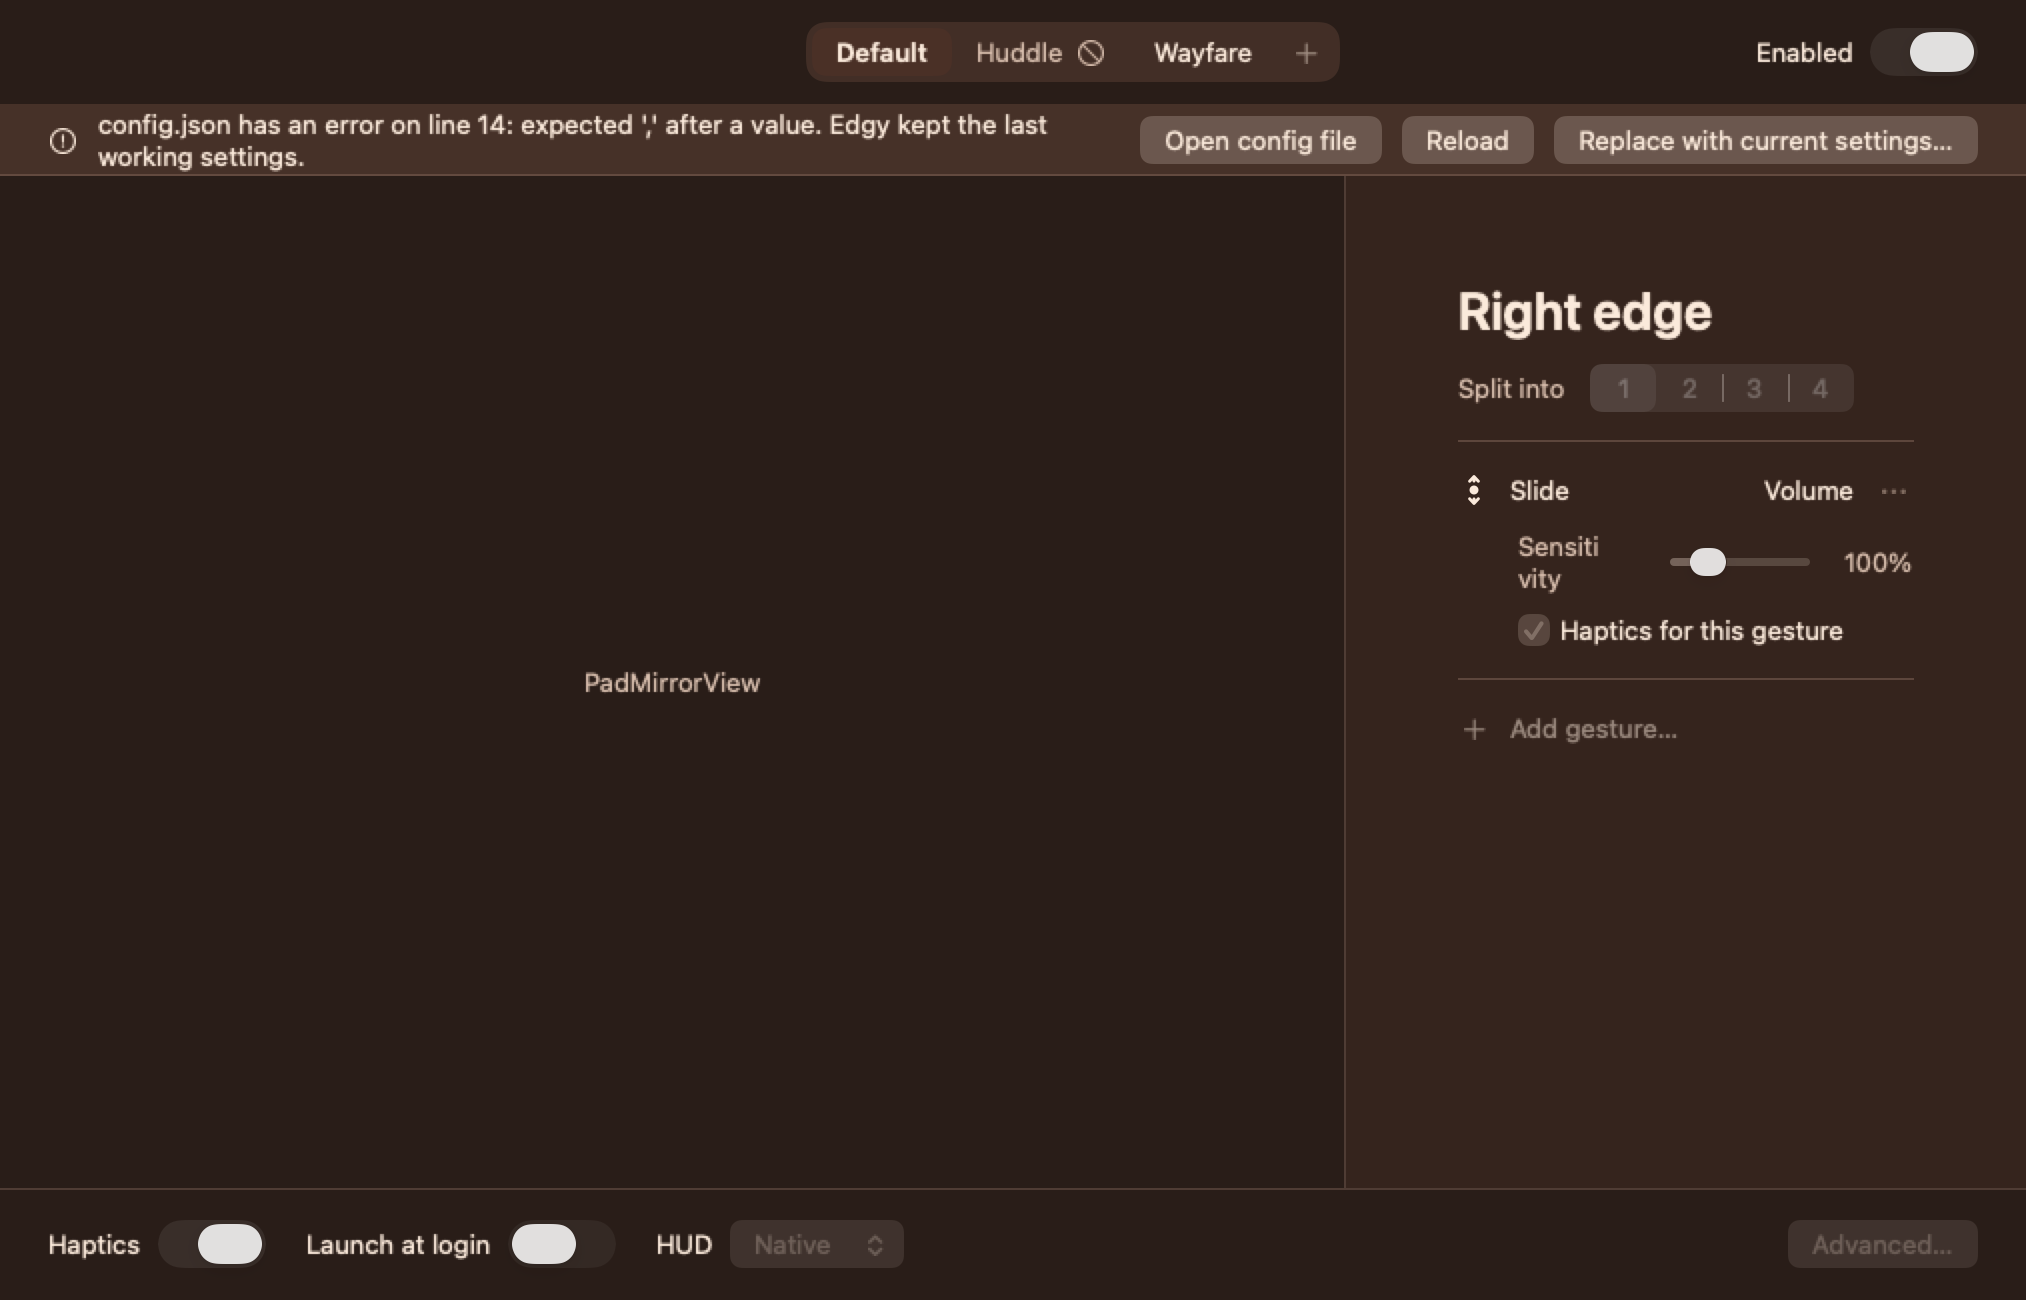
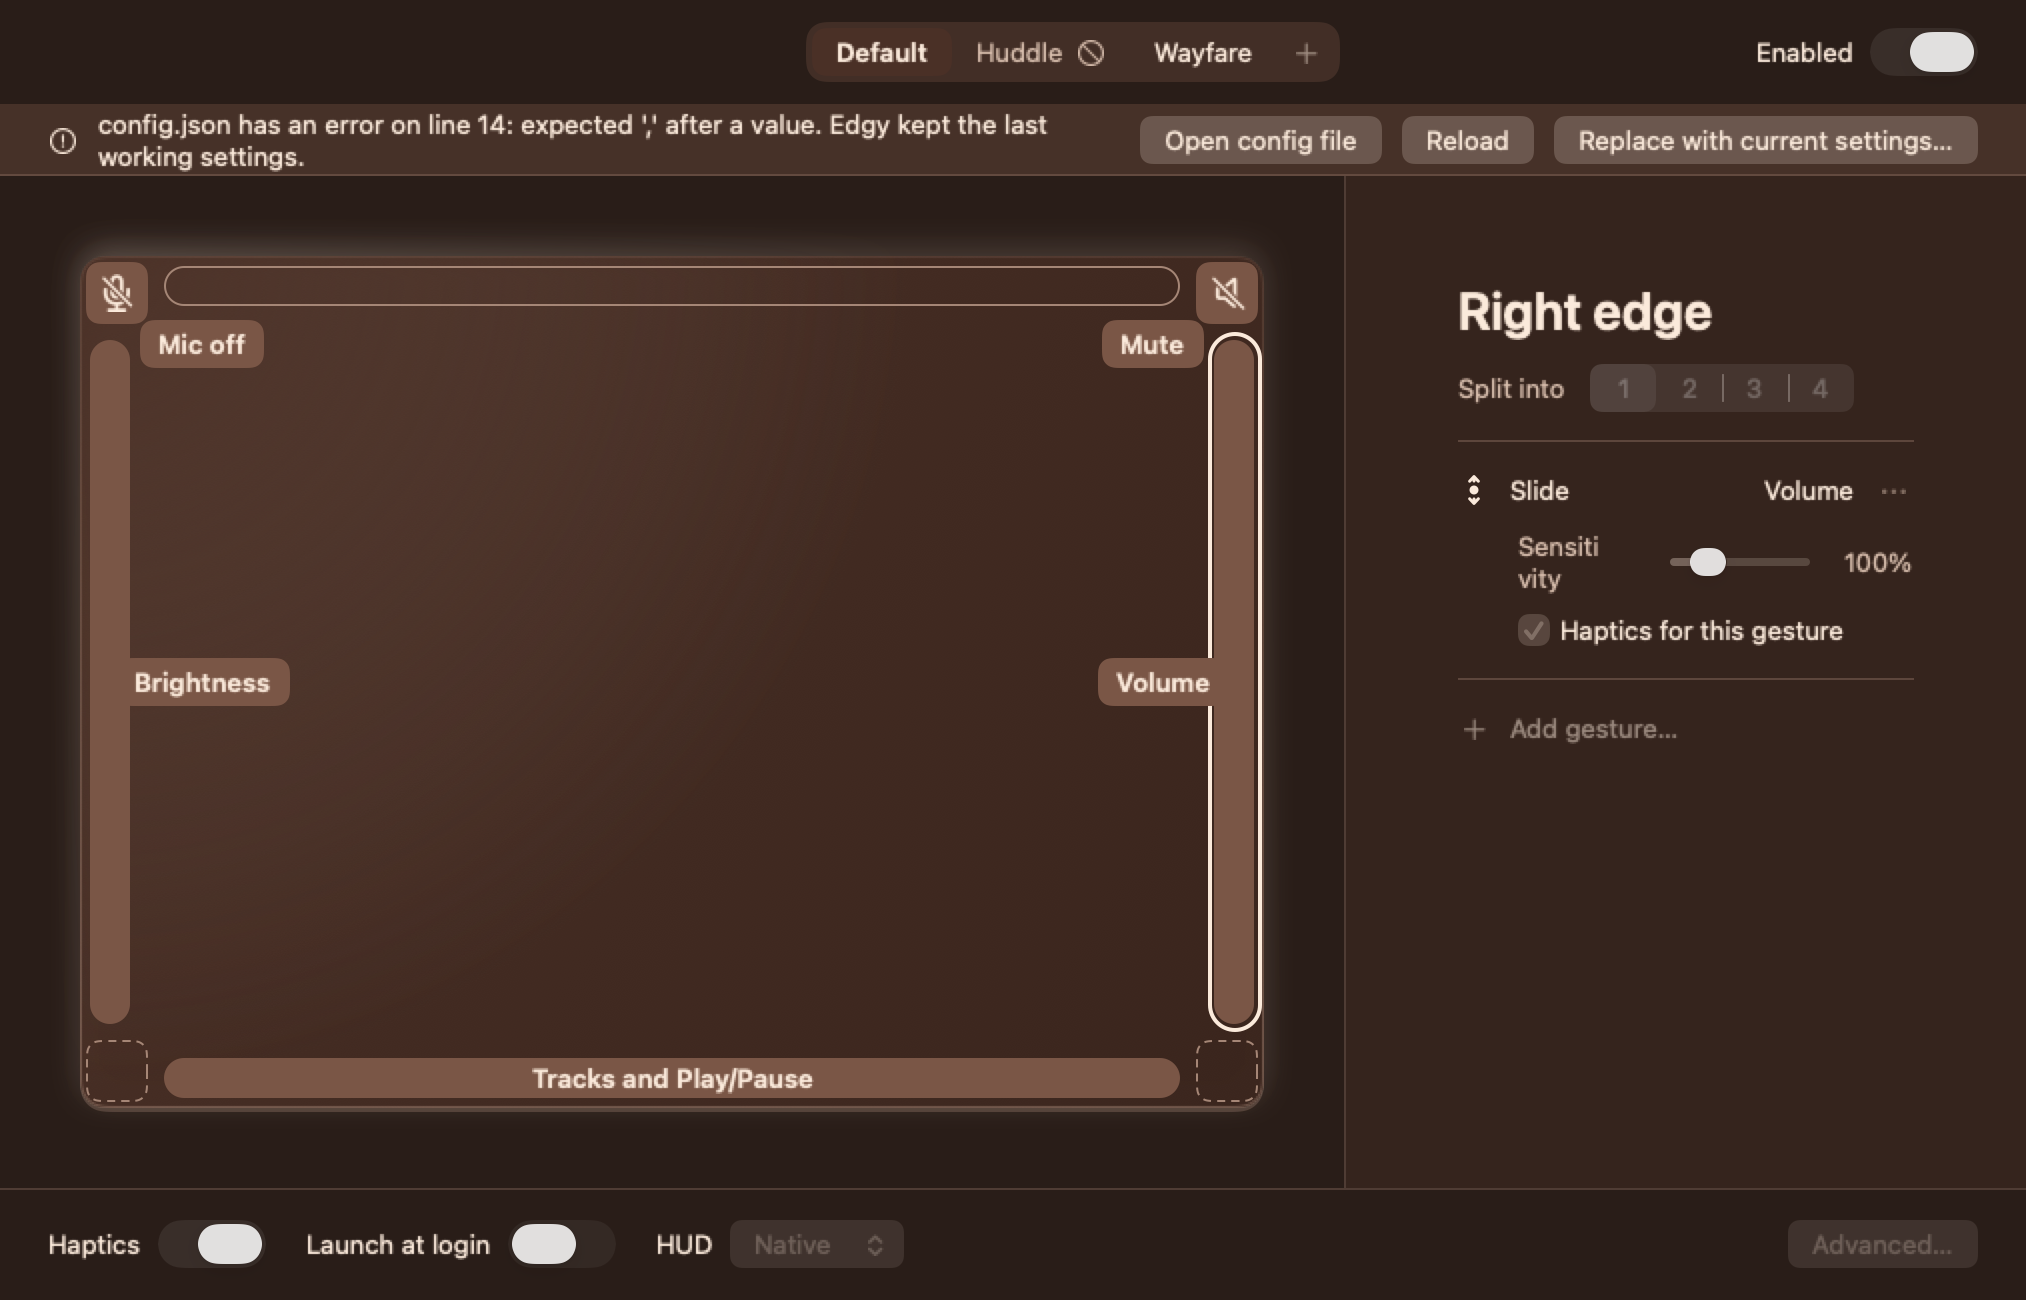
chief: mirror publishes picker anchors; integrated re-shoots; BRIEF one-open-binding + picker interior cap (design)

Changed region(s): [[0.0311, 0.1846, 0.6219, 0.8615]]

diff --git a/Sources/EdgyUI/Mirror/MirrorPad.swift b/Sources/EdgyUI/Mirror/MirrorPad.swift
@@ -154,6 +154,7 @@ struct MirrorPad: View {
     }
     .frame(width: rect.width, height: rect.height)
     .anchorPreference(key: ZoneAnchorKey.self, value: .bounds) { [zone.zone: $0] }
+    .pickerAnchor(for: zone.zone)
     .offset(x: rect.minX, y: rect.minY)
     .allowsHitTesting(false)
   }

diff --git a/Sources/EdgyUI/Mirror/PadMirrorView.swift b/Sources/EdgyUI/Mirror/PadMirrorView.swift
@@ -37,6 +37,7 @@ public struct PadMirrorView: View {
         message: Self.message(for: state),
         onSelect: { model.selectZone($0) }
       )
+      .pickerMirrorBounds()
       .id(device?.id)
       .transition(.opacity)
     }

diff --git a/docs/BRIEF.md b/docs/BRIEF.md
@@ -220,6 +220,8 @@ Every row has a "…" menu with Change action…, Turn off here and Revert to De
 
 ### Binding parameters (spec, 2026-11-07; renders to follow)
 
+**Only one binding is open at a time.** Collapsed rows show the gesture and action only. The parameter rows, including "Haptics for this gesture", appear only under the **open** binding: the row the user clicked, or the one just set from the picker. Opening another row closes the first. A binding with an empty required parameter opens automatically.
+
 **One rule.**
 - The parameters sit directly under their binding row in the inspector, indented 24 pt.
 - Each takes one 28 pt row: the label on the left (13, `ink2`), the control on the right.
@@ -384,7 +386,7 @@ Primary: **Continue**. One line in `ink2` under the rows: "You can change any of
 ### Picker at catalog scale (spec, 2026-11-07)
 
 - **Layout:**
-  - Single column, at most 420 pt wide, and **at most the mirror's height − 16 pt tall** (it never covers the pad's other bars). The header ("Tap, bottom edge") and the search field stay pinned, and the list scrolls.
+  - Single column, at most 420 pt wide, and **at most the height of the pad's interior**, the space between the inner edges of the top and bottom bars, so it never covers any bar. (Ruled 2026-11-07, replacing "mirror − 16 pt".) The header ("Tap, bottom edge") and the search field stay pinned, and the list scrolls.
   - The search field is focused on open. Arrows and Return work; typing filters.
 - **Groups, in catalog order:** Sound, Display, Media, System, Windows, Apps, Keyboard, Shortcuts. The group headers are the only 11 pt type.
 - **Actions that don't fit the gesture's shape are not listed in their groups.** They collapse into one disclosure row at the end in `ink2`, "6 more need a slide", which expands in place. The search covers them too.

diff --git a/docs/BRAND.md b/docs/BRAND.md
@@ -34,7 +34,7 @@ Start here before you make anything that looks or sounds like Edgy: app UI, an i
 
 ### Tokens
 
-Copied from `docs/BRIEF.md` § Tokens. **BRIEF is canonical; if a value here ever differs, BRIEF wins.** In code, use `Tokens.swift` (transcribed from BRIEF), never literals.
+Copied from `docs/BRIEF.md` § Tokens. **BRIEF is canonical; if a value here ever differs, BRIEF wins.** In code, use `Sources/EdgyUI/Shared/Tokens.swift` (transcribed from BRIEF), never literals.
 
 | Token | Light | Dark | Use |
 |---|---|---|---|
@@ -235,7 +235,7 @@ The website, the landing page, social posts, launch video frames and README scre
   - `26F-SUPP-S7.png`: onboarding step 3, presets
   - `26F-SUPP-S8.png`: plates and issues (level plate, display check, hold plate)
 - **Production assets:** `docs/design/assets/` and its `README.md`.
-- **Build snapshot critiques:** `docs/design/critiques/batch-N.md` (one per merged UI batch, checked against the final renders), with the snapshots in `docs/design/build-shots/`.
+- **Build snapshot critiques:** `docs/design/critiques/batch-N.md` (created per merged UI batch, checked against the final renders), with the snapshots in `docs/design/build-shots/`.
 - Renders show the feel; when a render and BRIEF disagree, BRIEF wins.
 
 ## Provenance
